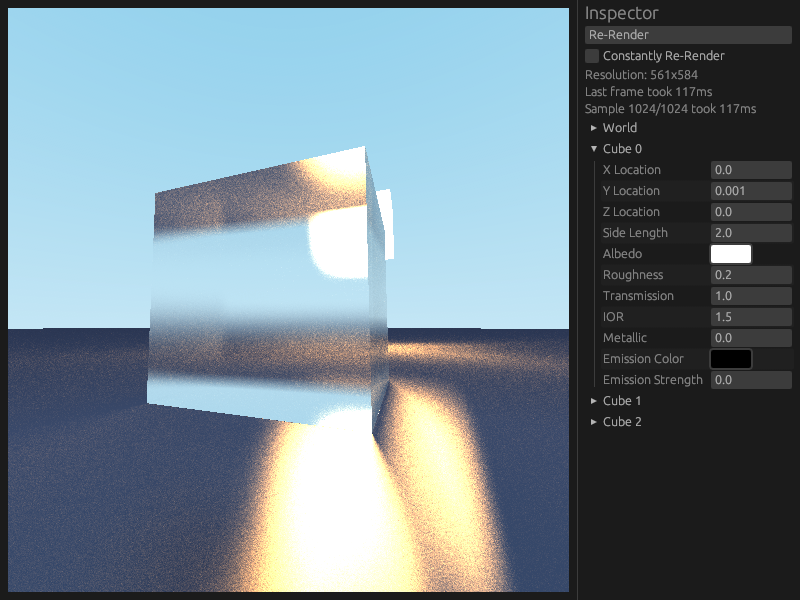
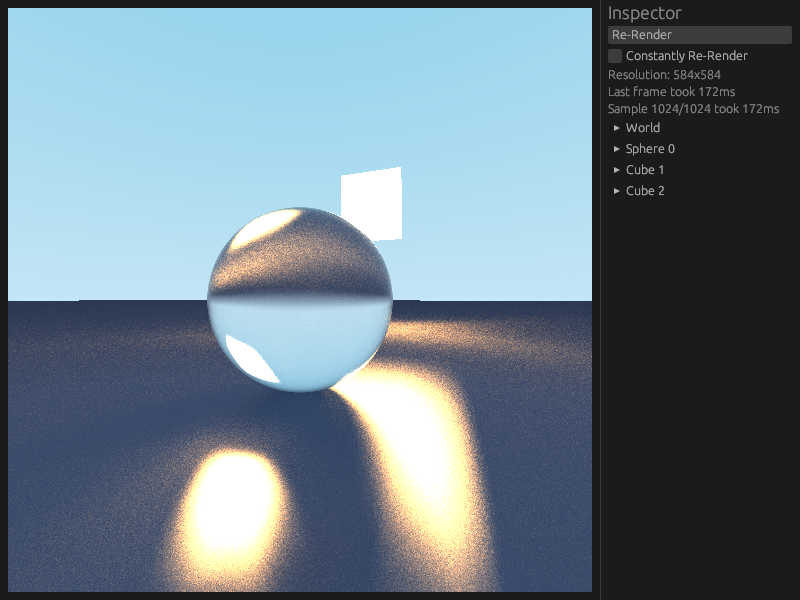
implemented sphere intersections in vulkan renderer
closes #1

diff --git a/src/renderer/vulkan.rs b/src/renderer/vulkan.rs
@@ -216,6 +216,9 @@ impl Renderer for VulkanRenderer {
                         acceleration_structure_reference: self.sphere_blas.device_address().into(),
                         transform: get_transform_matrix(sphere.center, sphere.radius),
                         instance_custom_index_and_mask: Packed24_8::new(index as u32, 0xFF),
+                        instance_shader_binding_table_record_offset_and_flags: Packed24_8::new(
+                            1, 0,
+                        ),
                         ..Default::default()
                     },
                     Geometry::Cube(cube) => AccelerationStructureInstance {
@@ -316,6 +319,31 @@ impl Renderer for VulkanRenderer {
         )
         .unwrap();
 
+        let sphere_data = scene.objects.iter().map(|object| match &object.geometry {
+            Geometry::Sphere(sphere) => shaders::intersection::Sphere {
+                center: sphere.center.into(),
+                radius: sphere.radius,
+            },
+            _ => shaders::intersection::Sphere {
+                center: [0.0, 0.0, 0.0],
+                radius: 0.0,
+            },
+        });
+        let sphere_buffer = Buffer::from_iter(
+            self.memory_allocator.clone(),
+            BufferCreateInfo {
+                usage: BufferUsage::STORAGE_BUFFER,
+                ..Default::default()
+            },
+            AllocationCreateInfo {
+                memory_type_filter: MemoryTypeFilter::PREFER_DEVICE
+                    | MemoryTypeFilter::HOST_SEQUENTIAL_WRITE,
+                ..Default::default()
+            },
+            sphere_data,
+        )
+        .unwrap();
+
         let scene_descriptor_set = DescriptorSet::new(
             self.descriptor_set_allocator.clone(),
             self.pipeline_layout.set_layouts()[0].clone(),
@@ -326,6 +354,7 @@ impl Renderer for VulkanRenderer {
                 WriteDescriptorSet::buffer(3, self.cube_vertex_buffer.clone()),
                 WriteDescriptorSet::buffer(4, self.cube_index_buffer.clone()),
                 WriteDescriptorSet::buffer(5, materials_buffer.clone()),
+                WriteDescriptorSet::buffer(6, sphere_buffer.clone()),
             ],
             [],
         )
@@ -530,6 +559,17 @@ impl VulkanRenderer {
                                         )
                                     },
                                 ),
+                                // Sphere buffer binding
+                                (
+                                    6,
+                                    DescriptorSetLayoutBinding {
+                                        stages: ShaderStages::INTERSECTION
+                                            | ShaderStages::CLOSEST_HIT,
+                                        ..DescriptorSetLayoutBinding::descriptor_type(
+                                            DescriptorType::StorageBuffer,
+                                        )
+                                    },
+                                ),
                             ]
                             .into_iter()
                             .collect(),
@@ -566,7 +606,11 @@ impl VulkanRenderer {
                 .unwrap()
                 .entry_point("main")
                 .unwrap();
-            let closest_hit = shaders::closest_hit::load(device.clone())
+            let triangle_closest_hit = shaders::triangle_closest_hit::load(device.clone())
+                .unwrap()
+                .entry_point("main")
+                .unwrap();
+            let sphere_closest_hit = shaders::sphere_closest_hit::load(device.clone())
                 .unwrap()
                 .entry_point("main")
                 .unwrap();
@@ -575,12 +619,18 @@ impl VulkanRenderer {
                 .unwrap()
                 .entry_point("main")
                 .unwrap();
+            let intersection = shaders::intersection::load(device.clone())
+                .unwrap()
+                .entry_point("main")
+                .unwrap();
 
             // Make a list of the shader stages that the pipeline will have.
             let stages = [
                 PipelineShaderStageCreateInfo::new(raygen),
                 PipelineShaderStageCreateInfo::new(miss),
-                PipelineShaderStageCreateInfo::new(closest_hit),
+                PipelineShaderStageCreateInfo::new(triangle_closest_hit),
+                PipelineShaderStageCreateInfo::new(sphere_closest_hit),
+                PipelineShaderStageCreateInfo::new(intersection),
             ];
 
             // Define the shader groups that will eventually turn into the shader binding table.
@@ -591,6 +641,11 @@ impl VulkanRenderer {
                 RayTracingShaderGroupCreateInfo::TrianglesHit {
                     closest_hit_shader: Some(2),
                     any_hit_shader: None,
+                },
+                RayTracingShaderGroupCreateInfo::ProceduralHit {
+                    closest_hit_shader: Some(3),
+                    any_hit_shader: None,
+                    intersection_shader: 4,
                 },
             ];
 
@@ -797,8 +852,8 @@ impl VulkanRenderer {
                 ..Default::default()
             },
             vec![AabbPositions {
-                min: [-0.5, -0.5, -0.5],
-                max: [0.5, 0.5, 0.5],
+                min: [-1.0, -1.0, -1.0],
+                max: [1.0, 1.0, 1.0],
             }],
         )
         .unwrap();
@@ -1027,10 +1082,18 @@ mod shaders {
         }
     }
 
-    pub(super) mod closest_hit {
+    pub(super) mod triangle_closest_hit {
         vulkano_shaders::shader! {
             ty: "closesthit",
-            path: "shaders/vulkan/raytrace.rchit",
+            path: "shaders/vulkan/raytrace_triangle.rchit",
+            vulkan_version: "1.2"
+        }
+    }
+
+    pub(super) mod sphere_closest_hit {
+        vulkano_shaders::shader! {
+            ty: "closesthit",
+            path: "shaders/vulkan/raytrace_sphere.rchit",
             vulkan_version: "1.2"
         }
     }
@@ -1039,6 +1102,14 @@ mod shaders {
         vulkano_shaders::shader! {
             ty: "miss",
             path: "shaders/vulkan/raytrace.miss",
+            vulkan_version: "1.2"
+        }
+    }
+
+    pub(super) mod intersection {
+        vulkano_shaders::shader! {
+            ty: "intersection",
+            path: "shaders/vulkan/raytrace.rint",
             vulkan_version: "1.2"
         }
     }
